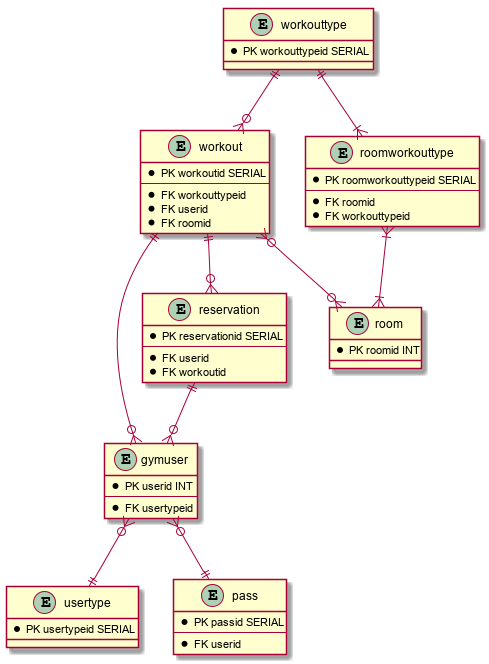
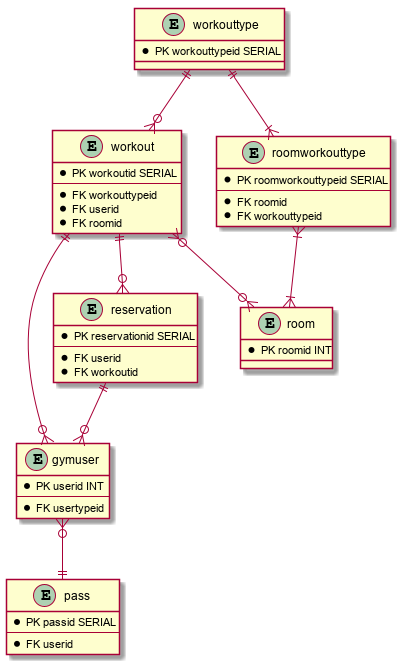
early clearence and annotations for JPA

diff --git a/src/main/java/com/gym/models/users/User.java b/src/main/java/com/gym/models/users/User.java
@@ -1,25 +1,42 @@
 package com.gym.models.users;
 
+import javax.persistence.*;
 import javax.swing.*;
+import java.util.Objects;
 
+@Entity
+@Table(name="gymuser")
 public abstract class User {
 
-   private String login;
-   private String password;
-   private String name;
-   private  String surname;
-   private  String mail;
-   private int userId;
-   private static int finalUserId=0;
-   private UserType userType;
-   private Icon profilePic;
+    private static int finalUserId = 0;
 
-    public User(String login, String password, String name, String surname, String mail, Icon profilePic) {
-        finalUserId++;
-        this.userId = finalUserId;
+    @Id
+    @Column(name="userid")
+    private int userId;
+
+    @Column(name="usertype")
+    @Enumerated(EnumType.STRING)
+    private UserType userType;
+
+//    @Column(name="firstname")
+    private String firstname;
+
+    private String surname;
+    private String mail;
+    private String login;
+    private String password;
+
+    @Column(name="profilepic")
+    private Icon profilePic;
+
+    public User() {}
+
+    public User(String login, String password, String firstname, String surname, String mail, Icon profilePic) {
+//        finalUserId++;
+        this.userId = ++finalUserId;
         this.login = login;
         this.password = password;
-        this.name = name;
+        this.firstname = firstname;
         this.surname = surname;
         this.mail = mail;
         this.profilePic = profilePic;
@@ -41,12 +58,12 @@ public abstract class User {
         this.password = password;
     }
 
-    public String getName() {
-        return name;
+    public String getFirstname() {
+        return firstname;
     }
 
-    public void setName(String name) {
-        this.name = name;
+    public void setFirstname(String firstname) {
+        this.firstname = firstname;
     }
 
     public String getSurname() {
@@ -87,5 +104,36 @@ public abstract class User {
 
     public void setProfilePic(Icon profilePic) {
         this.profilePic = profilePic;
+    }
+
+    @Override
+    public String toString() {
+        return "User{ "+
+                "usertype="+userType+
+                ", id="+
+                ", firstname="+firstname+
+                ", surname="+surname+
+                ", mail="+mail+
+                '}';
+    }
+
+
+    @Override
+    public boolean equals(Object o) {
+        if (this == o) return true;
+        if (o == null || getClass() != o.getClass()) return false;
+        User user = (User) o;
+        return userId == user.userId &&
+                userType == user.userType &&
+                firstname.equals(user.firstname) &&
+                surname.equals(user.surname) &&
+                mail.equals(user.mail) &&
+                login.equals(user.login) &&
+                profilePic.equals(user.profilePic);
+    }
+
+    @Override
+    public int hashCode() {
+        return Objects.hash(userId, userType, firstname, surname, mail, login, profilePic);
     }
 }

diff --git a/src/main/java/com/gym/models/workout/Pass.java b/src/main/java/com/gym/models/workout/Pass.java
@@ -2,20 +2,40 @@ package com.gym.models.workout;
 
 import com.gym.models.users.User;
 
+import javax.persistence.Column;
+import javax.persistence.Entity;
+import javax.persistence.Id;
+import javax.persistence.Table;
 import java.text.SimpleDateFormat;
 import java.util.Calendar;
 import java.util.Date;
+import java.util.Objects;
 
+@Entity
+@Table(name="pass")
 public class Pass {
 
-    private User passOwner;
+    private static int passCounter=0;
+
+    @Id
+    @Column(name="passid")
     private int passId;
+
+    private User passOwner;
     private int daysOfAccess;
+
+    @Column(name="endofaccess")
     private Calendar endOfAccess;
+
+    @Column(name="startofaccess")
     private Calendar startOfAccess;
 
+    public Pass() {
+        this.passId = passCounter++;
+    }
+
     public Pass(User passOwner, int daysOfAccess) {
-        this.passId = hashCode();
+        this.passId = passCounter++;
         this.passOwner = passOwner;
         this.daysOfAccess = daysOfAccess;
         this.endOfAccess = Calendar.getInstance();
@@ -53,5 +73,32 @@ public class Pass {
 
     public void setStartOfAccess(Calendar startOfAccess) {
         this.startOfAccess = startOfAccess;
+    }
+
+    @Override
+    public boolean equals(Object o) {
+        if (this == o) return true;
+        if (o == null || getClass() != o.getClass()) return false;
+        Pass pass = (Pass) o;
+        return passId == pass.passId &&
+                passOwner.equals(pass.passOwner) &&
+                endOfAccess.equals(pass.endOfAccess) &&
+                startOfAccess.equals(pass.startOfAccess);
+    }
+
+    @Override
+    public int hashCode() {
+        return Objects.hash(passId, passOwner, endOfAccess, startOfAccess);
+    }
+
+    @Override
+    public String toString() {
+        return "Pass{" +
+                "passId=" + passId +
+                ", passOwner=" + passOwner +
+                ", daysOfAccess=" + daysOfAccess +
+                ", endOfAccess=" + endOfAccess +
+                ", startOfAccess=" + startOfAccess +
+                '}';
     }
 }

diff --git a/src/main/java/com/gym/models/workout/Reservation.java b/src/main/java/com/gym/models/workout/Reservation.java
@@ -2,14 +2,26 @@ package com.gym.models.workout;
 
 import com.gym.models.users.Client;
 
+import javax.persistence.*;
+import java.util.Objects;
+
+@Entity
+@Table(name="reservation")
 public class Reservation {
+
+    private int reservationCounter=0;
+
+    @Id
+    @Column(name="reservationid")
+    private int reservationId;
 
     private Client client;
     private Workout workout;
-    private int reservationId;
+
+    public Reservation() {this.reservationId=reservationCounter++;}
 
     public Reservation(Client client, Workout workout) {
-        this.reservationId = hashCode();
+        this.reservationId=reservationCounter++;
         this.client = client;
         this.workout = workout;
     }
@@ -28,5 +40,31 @@ public class Reservation {
 
     public void setWorkout(Workout workout) {
         this.workout = workout;
+    }
+
+    @Override
+    public boolean equals(Object o) {
+        if (this == o) return true;
+        if (o == null || getClass() != o.getClass()) return false;
+        Reservation that = (Reservation) o;
+        return reservationCounter == that.reservationCounter &&
+                reservationId == that.reservationId &&
+                client.equals(that.client) &&
+                workout.equals(that.workout);
+    }
+
+    @Override
+    public int hashCode() {
+        return Objects.hash(reservationCounter, reservationId, client, workout);
+    }
+
+    @Override
+    public String toString() {
+        return "Reservation{" +
+                "reservationCounter=" + reservationCounter +
+                ", reservationId=" + reservationId +
+                ", client=" + client +
+                ", workout=" + workout +
+                '}';
     }
 }

diff --git a/src/main/java/com/gym/models/workout/Workout.java b/src/main/java/com/gym/models/workout/Workout.java
@@ -1,16 +1,33 @@
 package com.gym.models.workout;
 
+import com.gym.models.users.User;
+
+import javax.persistence.*;
+import java.util.ArrayList;
 import java.util.Date;
 
+@Entity
+@Table(name="workout")
 public class Workout {
 
-    private int workoutId = hashCode();
+    private int workoutCounter=0;
+
+    @Id
+    @Column(name="workoutid")
+    private int workoutId;
+
+    @Column(name="maxnumberofmembers")
+    private int maxNumberOfMembers;
+
+    @Enumerated(EnumType.STRING)
     private WorkoutType workoutType;
     private Date date;
     private Room room;
-    private int maxNumberOfMembers;
+
+    public Workout() {this.workoutId=workoutCounter++;}
 
     public Workout(WorkoutType workoutType, Date date, Room room) {
+        this.workoutId=workoutCounter++;
         this.workoutType = workoutType;
         this.date = date;
         this.room = room;

diff --git a/src/main/java/com/gym/models/workout/Room.java b/src/main/java/com/gym/models/workout/Room.java
@@ -1,16 +1,31 @@
 package com.gym.models.workout;
 
+import javax.persistence.Column;
+import javax.persistence.Entity;
+import javax.persistence.Id;
+import javax.persistence.Table;
 import java.util.List;
 
+@Entity
+@Table(name="room")
 public class Room {
 
-    private int roomId = hashCode();
+    private int roomCounter=0;
+
+    @Id
+    @Column(name="roomid")
+    private int roomId;
+
+    @Column(name="roomcapacity")
     private int roomCapacity;
     private boolean booked;
     private String equipment;
     private List<WorkoutType> allowedWorkouts;
 
+    public Room() {this.roomId=roomCounter++;}
+
     public Room(int roomCapacity, boolean booked, String equipment, List<WorkoutType> allowedWorkouts) {
+        this.roomId=roomCounter++;
         this.roomCapacity = roomCapacity;
         this.booked = booked;
         this.equipment = equipment;

diff --git a/src/main/java/com/gym/models/users/UserType.java b/src/main/java/com/gym/models/users/UserType.java
@@ -1,7 +1,36 @@
 package com.gym.models.users;
 
-public enum UserType {
+enum UserType{
     ADMIN,
-    CLIENT,
-    TRAINER
+    TRAINER,
+    CLIENT
+
+/*
+import javax.persistence.Column;
+import javax.persistence.GeneratedValue;
+import javax.persistence.Id;
+
+
+public class UserType {
+
+    static {
+        String[] typeList = {"ADMIN", "CLIENT", "TRAINER"};
+        for (String type : typeList)
+            new UserType(type);
+    }
+
+    @Id
+    @GeneratedValue
+    @Column(name = "usertypeid")
+    private int userTypeId;
+
+    @Column(name = "usertypename")
+    private String name;
+
+    public UserType() {
+    }
+
+    public UserType(String name) {
+        this.name = name;
+    }*/
 }

diff --git a/src/main/java/com/gym/models/workout/WorkoutType.java b/src/main/java/com/gym/models/workout/WorkoutType.java
@@ -7,18 +7,29 @@ public enum WorkoutType {
     BODYBALANCE,
     BODYPUMP,
     BOXING,
+    CARDIO,
+    CLIMBING,
     CYCLE,
+    DANCE,
     FITNESS,
     FLOW_YOGA,
-    CARDIO,
+    PARKOUR,
     PILATES,
     RPM,
     SCULPT,
     SHOCKWAVE,
+    SKATING,
     STRENGTH,
     STRETCH,
+    SWIMMING,
     TAI_CHI,
+    WEIGHTLIFTING,
     YOGA,
-    ZUMBA
+    ZUMBA,
+
+
+
+
+
 
 }

diff --git a/src/main/java/com/gym/models/users/Client.java b/src/main/java/com/gym/models/users/Client.java
@@ -1,9 +1,11 @@
 package com.gym.models.users;
 
+import javax.persistence.Column;
 import javax.swing.*;
 
 public class Client extends User {
 
+    @Column(name="gympassstatus")
     boolean gymPassStatus;
 
     public Client(String login, String password, String name, String surname, String mail,Icon profilePic) {
